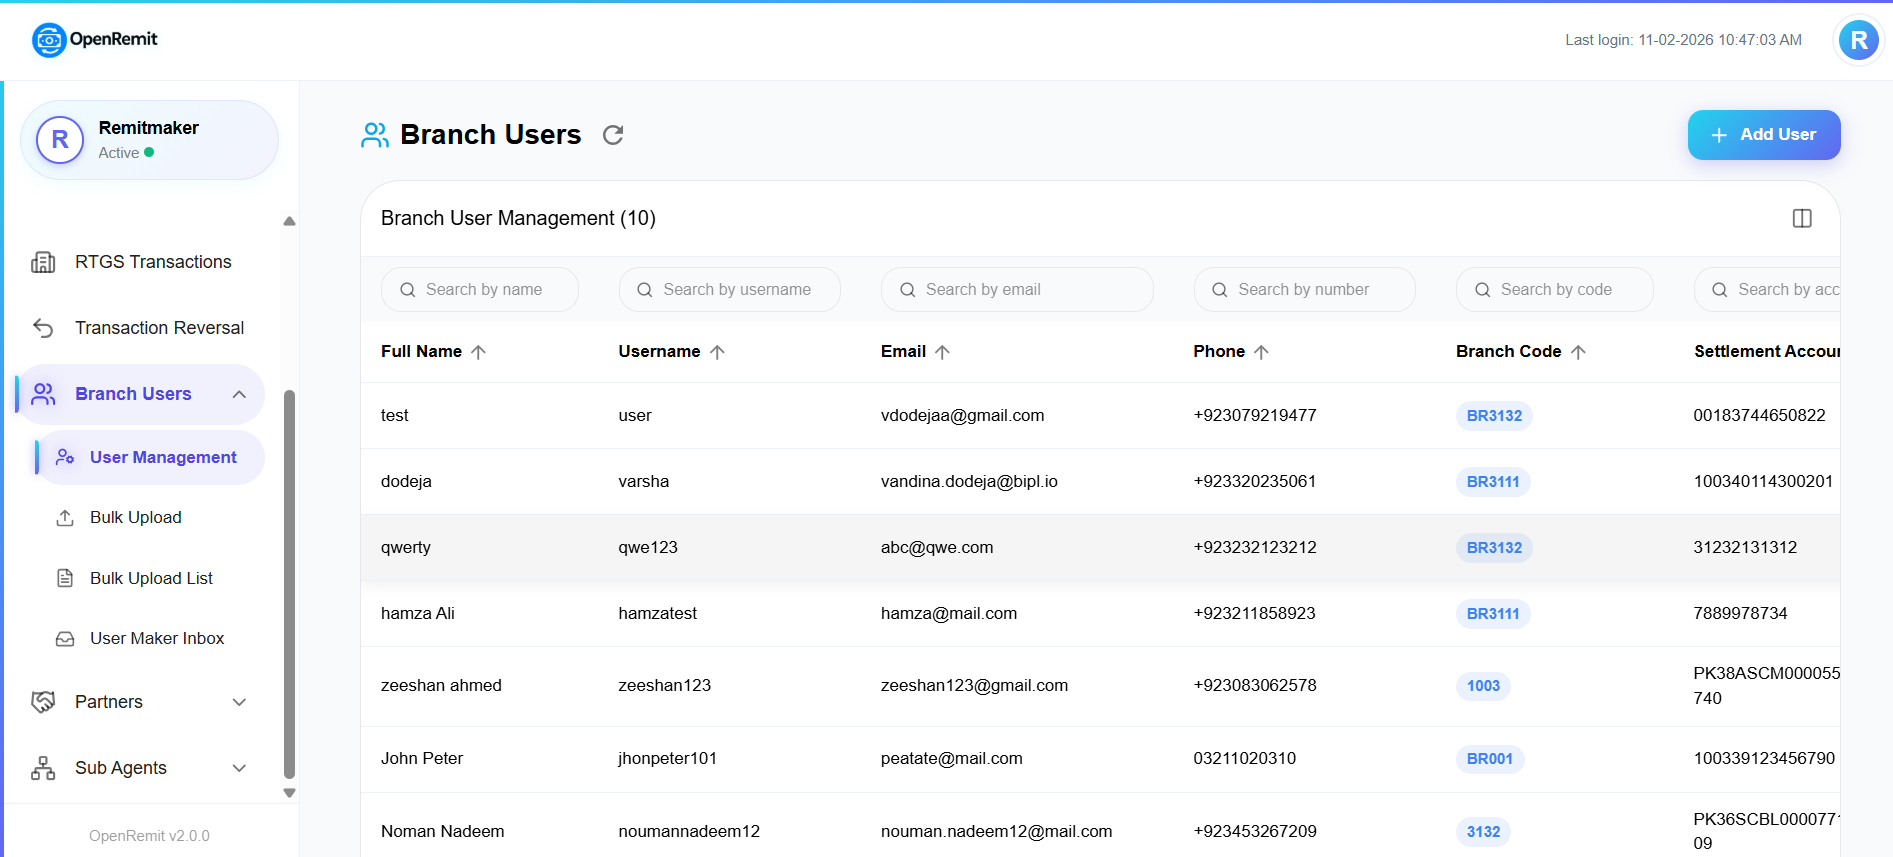
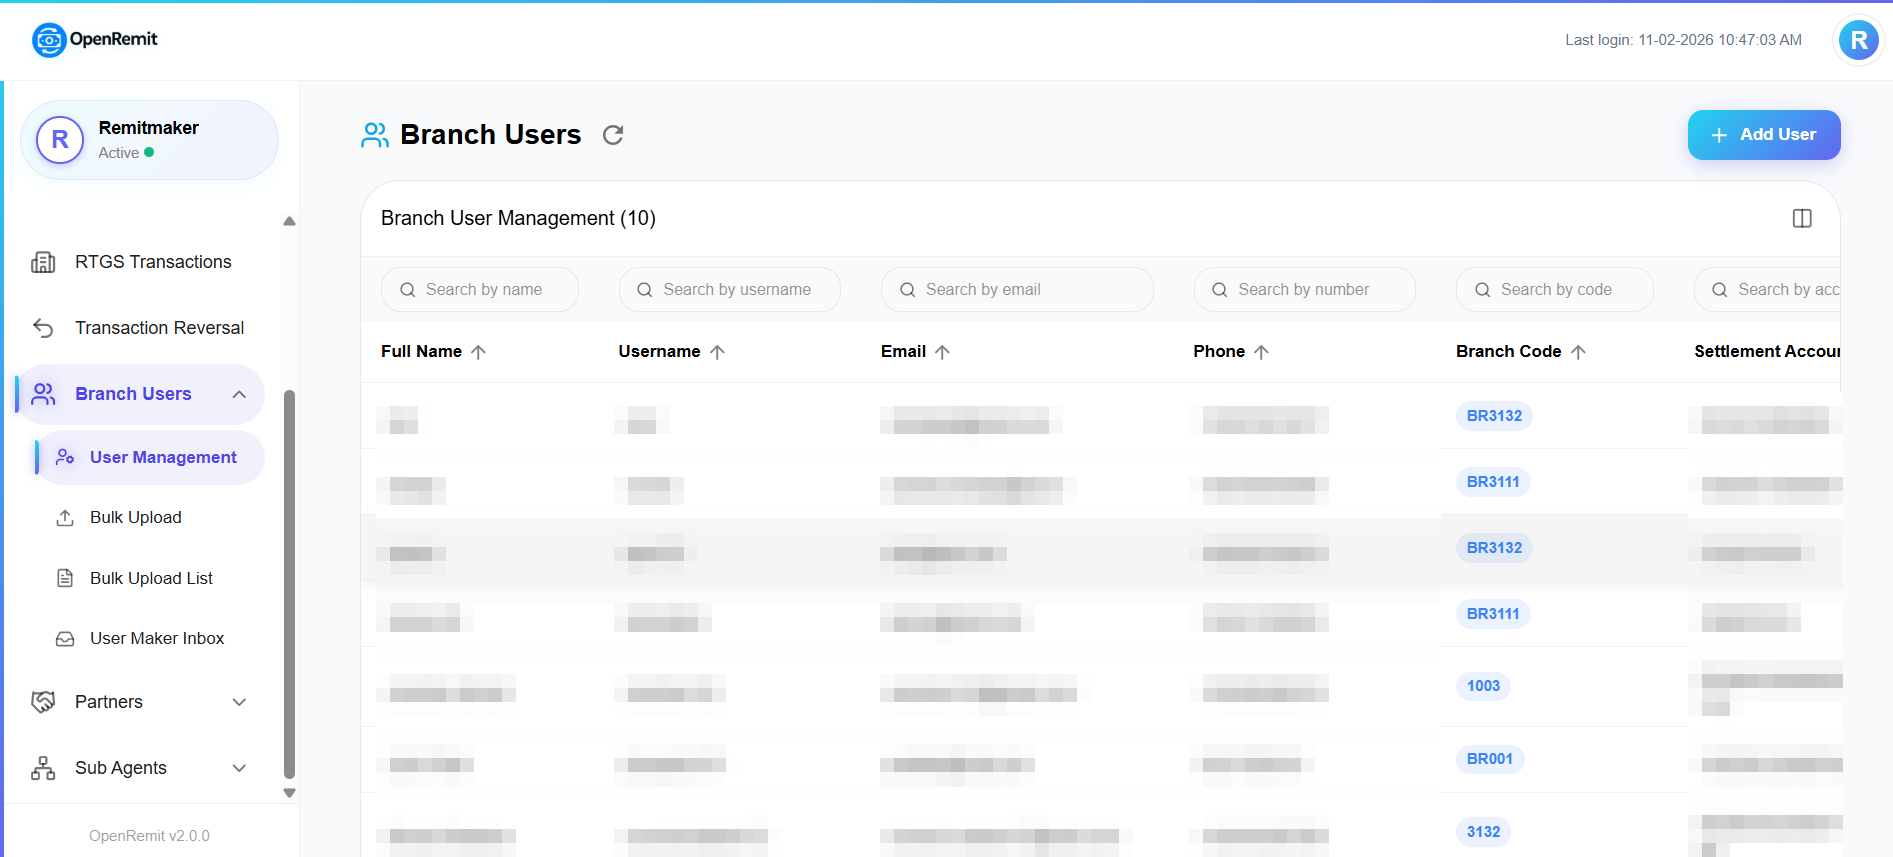
Generalize existing Back Office, Branch Portal and Overview pages
- Replace bank-specific terms: settlement account field labels and
  the screening system name in the Overview.
- Redact partner names, customer and staff personal data (names,
  CNICs, phones, emails, accounts, IBANs) in 19 screenshots, and
  relabel the screening system in two overview graphics.
- Fix Addpartner.png case mismatch (would 404 on case-sensitive
  hosting) and add the missing Overview hero image.

diff --git a/docs/overview/index.md b/docs/overview/index.md
@@ -195,7 +195,7 @@ export const OpenRemitOverview = () => {
               <div>
                 <Tag>Compliance & Monitoring</Tag>
                 <h3 style={{ fontSize:'clamp(1.1rem,2.2vw,1.55rem)', fontWeight:800, color:'#0c1e35', lineHeight:1.25, letterSpacing:'-0.02em', margin:'0 0 14px' }}>Built-In Compliance Screening</h3>
-                <p style={{ fontSize:14.5, lineHeight:1.8, color:'#5a6a88', margin:0 }}>SafeWatch screening, AML checks, and OFAC/UNSC sanctions verification are baked into every transaction flow — ensuring your bank stays compliant without slowing down operations.</p>
+                <p style={{ fontSize:14.5, lineHeight:1.8, color:'#5a6a88', margin:0 }}>AML/CFT screening through the Bank's Screening System and OFAC/UNSC sanctions verification are baked into every transaction flow — ensuring your bank stays compliant without slowing down operations.</p>
               </div>
             </div>
           </Reveal>
@@ -221,7 +221,7 @@ export const OpenRemitOverview = () => {
               <Tag>Architecture</Tag>
               <SectionH2>Robust, Modular, and Scalable</SectionH2>
               <p style={{ fontSize:14.5, lineHeight:1.8, color:'#5a6a88', margin:'0 0 28px', maxWidth:700 }}>
-                A centralized API gateway via Nginx routes all partner traffic into the unified OpenConnect middleware layer — orchestrating real-time processing, compliance screening (SafeWatch, ESB, TLINK), core banking integration, and full Grafana observability.
+                A centralized API gateway via Nginx routes all partner traffic into the unified OpenConnect middleware layer — orchestrating real-time processing, compliance screening (Screening System, Bank Integration Layer, 1LINK), core banking integration, and full Grafana observability.
               </p>
               <Frame src={IMG.highLevel} alt="High-Level Architecture" />
             </div>

diff --git a/docs/back-office/partners.md b/docs/back-office/partners.md
@@ -139,12 +139,12 @@ export const Partners = () => {
               <span style={s.bullet} />
               <div>
                 Additional fields:
-                <Sub items={['Country', 'Address', 'Point of Contact', 'Email', 'Contact Number', 'BIPL Settlement Account', 'Fetch Title', 'Account Title']} />
+                <Sub items={['Country', 'Address', 'Point of Contact', 'Email', 'Contact Number', 'Partner Settlement Account (GL)', 'Fetch Title', 'Account Title']} />
               </div>
             </li>
           </ul>
         </div>
-        <ImgCard src="/img/BO/Partner/Addpartner.png" alt="Add Partner" label="Fig. 2" />
+        <ImgCard src="/img/BO/Partner/AddPartner.png" alt="Add Partner" label="Fig. 2" />
 
         {/* View Partner Details */}
         <div style={s.sectionHeading}>View Partner Details <div style={s.line} /></div>

diff --git a/docs/back-office/subagents.md b/docs/back-office/subagents.md
@@ -133,7 +133,7 @@ export const Subagents = () => {
                   'Contact Person',
                   'Contact Phone',
                   'Contact Email',
-                  'BIPL Settlement Account',
+                  'Settlement Account',
                   'Fetch Title',
                   'Account Title',
                 ]} />
